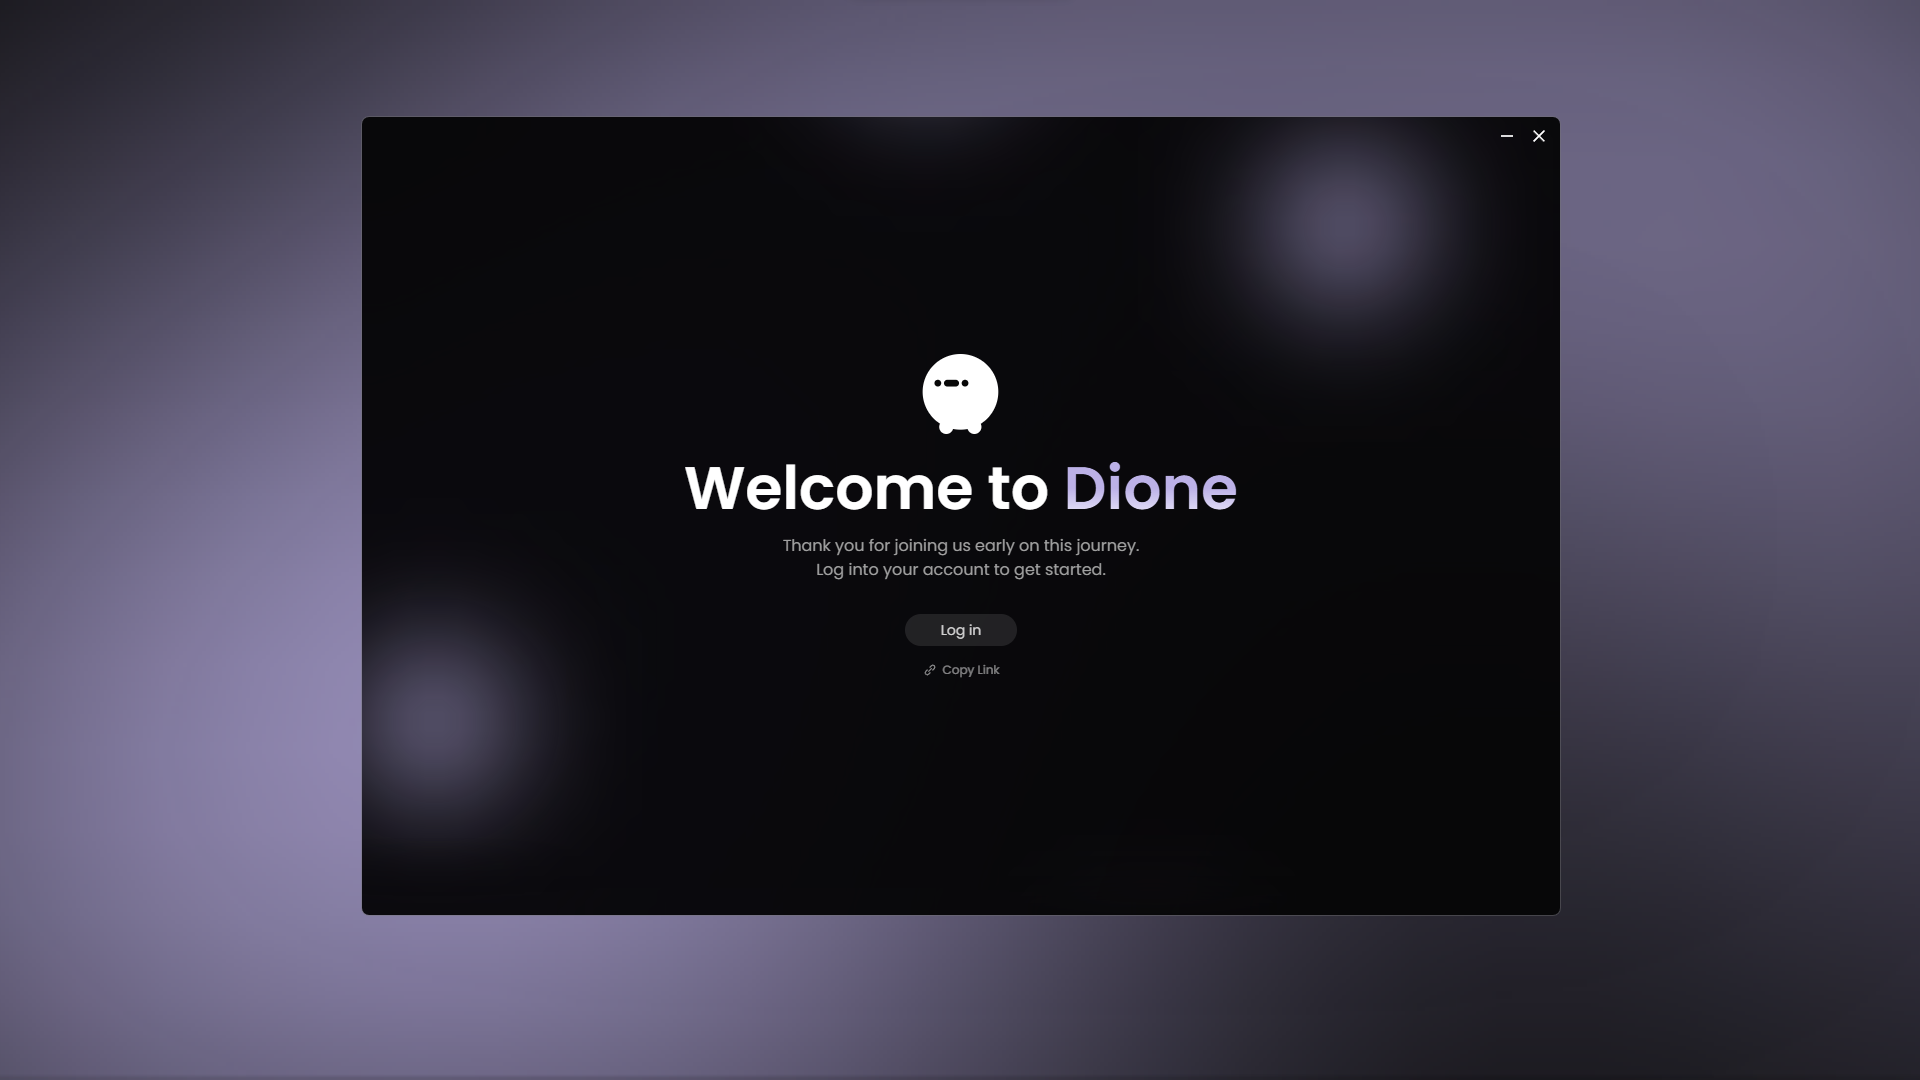
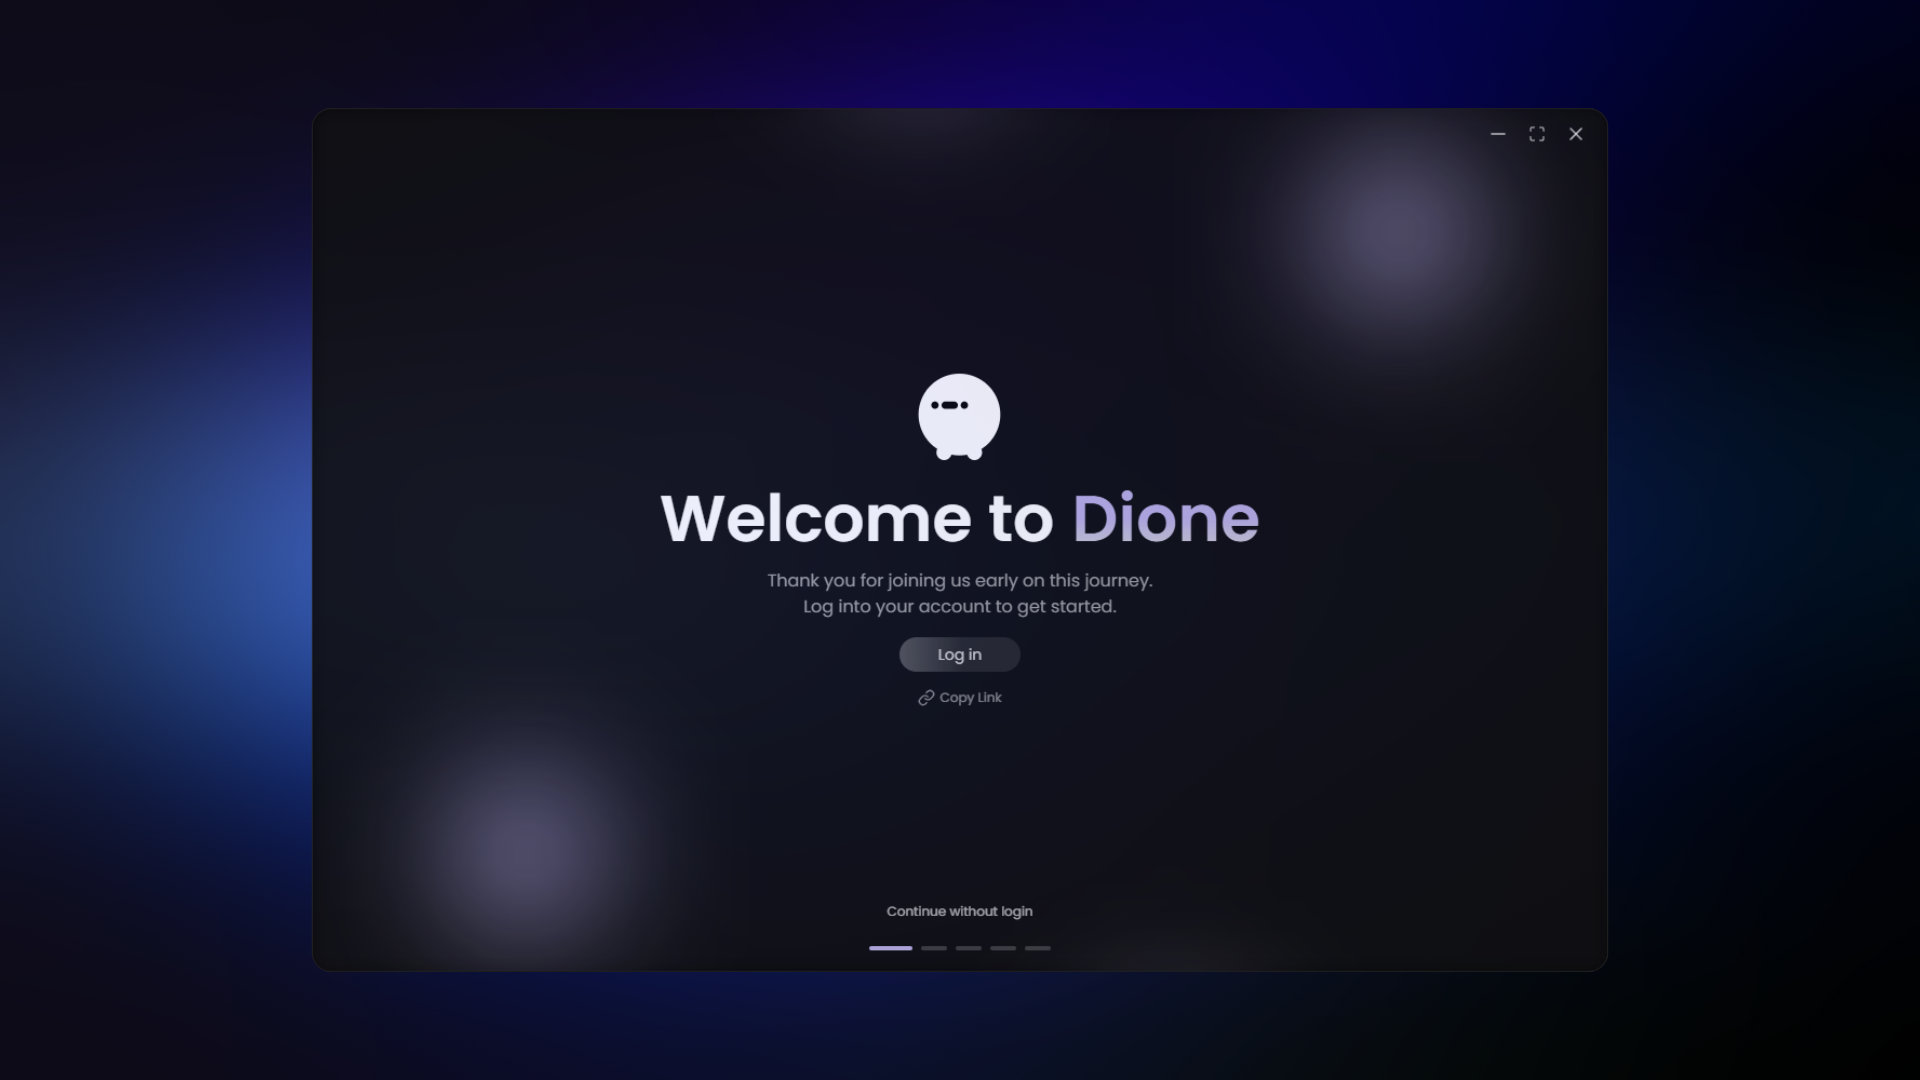
Docs: update more images

diff --git a/apps/docs/src/pages/getting-started/initial-setup.md b/apps/docs/src/pages/getting-started/initial-setup.md
@@ -20,6 +20,13 @@ If the login button doesn't work, please check our [troubleshooting guide](/trou
 
 ![Login](/images/login.png)
 
+### Select installation path
+Select a location to install the apps managed by Dione, after select a route we generate `apps` and `bin` folders where your apps and dependencies will be stored.
+
+**To avoid issues when updating Dione, you must select a location that is not the same folder as `dione.exe`.**
+
+![Select installation path](/images/onboarding2.png)
+
 ### All Set!
 You are now logged into Dione. Happy exploring!
 
